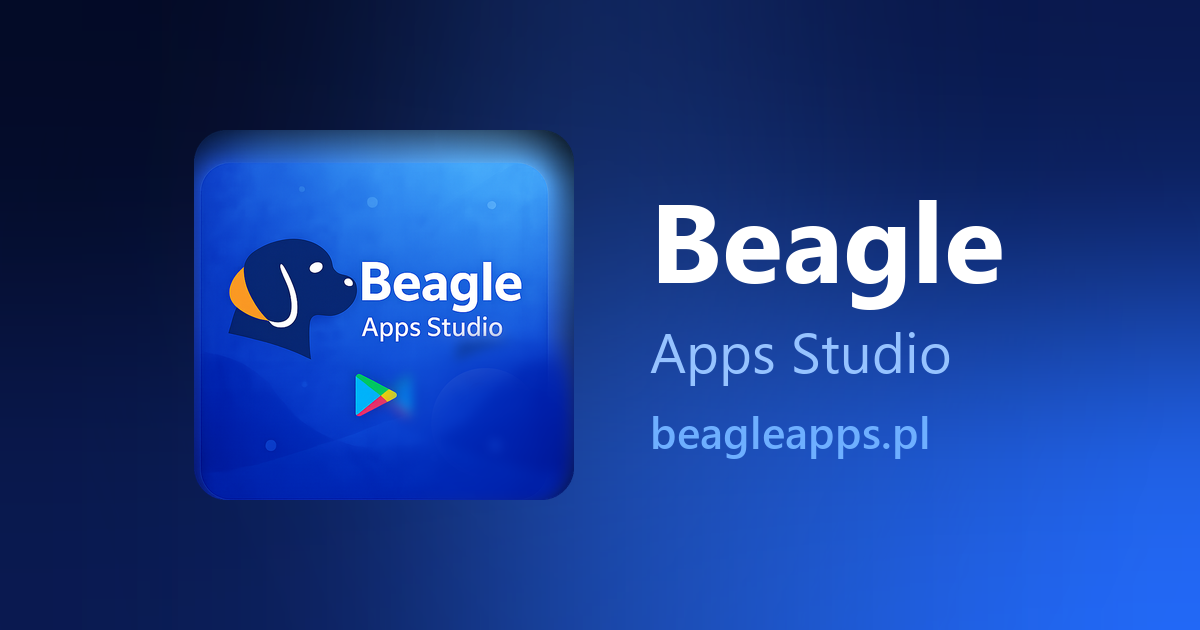
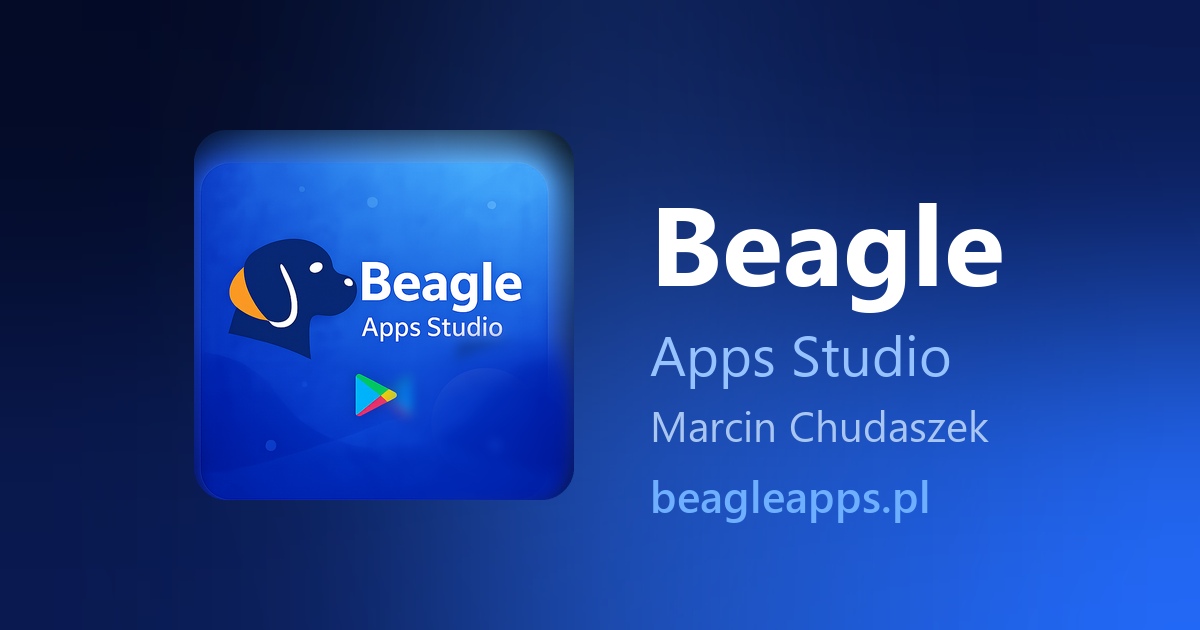
Podglad linku: wariant z nazwiskiem, zbudowany kodem brand kitu
Oficjalne og-image-1200x630.png ma tylko logo, nazwe studia i adres, a na
stronie autorstwo jest podpisane (stopka, sekcja "O mnie"), wiec podglad
linku tez je niesie.

scripts/og-image.py importuje BeagleAppsStudio-BrandKit\_generator.py i
sklada grafike tym samym kodem co oryginal — gradient(), glow(),
build_card(), ta sama paleta i typografia. Rozni sie tylko czwartym
wierszem "Marcin Chudaszek" miedzy "Apps Studio" a adresem; interlinie
przeliczone tak, zeby ogonek "g" w "Beagle" nie wchodzil na nastepny
wiersz (to samo zastrzezenie co w lockup() w brand kicie).

Nazwa pliku bez zmian, wiec og:image w <head> zostaje. og:image:alt
uzupelniony o nazwisko.

diff --git a/index.html b/index.html
@@ -22,7 +22,7 @@
     <meta property="og:image" content="https://beagleapps.pl/img/og-beagleapps.png">
     <meta property="og:image:width" content="1200">
     <meta property="og:image:height" content="630">
-    <meta property="og:image:alt" content="Logo Beagle Apps Studio i adres beagleapps.pl">
+    <meta property="og:image:alt" content="Logo Beagle Apps Studio, Marcin Chudaszek, beagleapps.pl">
 
     <meta name="twitter:card" content="summary_large_image">
     <meta name="twitter:title" content="Beagle Apps Studio — aplikacje mobilne, webowe i gry">

diff --git a/scripts/og-image.py b/scripts/og-image.py
@@ -1,0 +1,64 @@
+"""Buduje grafike podgladu linku (Open Graph, 1200x630) w wersji z nazwiskiem.
+
+Oficjalne og-image-1200x630.png z brand kitu ma tylko logo, nazwe studia i
+adres. Na stronie autorstwo jest podpisane (stopka, sekcja "O mnie"), wiec
+podglad linku tez je niesie. Poza dodatkowym wierszem grafika jest zbudowana
+dokladnie tak samo jak oryginal: tym samym kodem, ta sama paleta i typografia.
+
+Uruchom:  python scripts/og-image.py
+"""
+import importlib.util
+import os
+
+from PIL import Image, ImageDraw
+
+BRANDKIT = r"C:\Users\marci\Desktop\Projekty\BeagleAppsStudio-BrandKit\_generator.py"
+CEL = r"C:\Users\marci\Desktop\Projekty\moje-aplikacje-strona\img\og-beagleapps.png"
+
+AUTOR = "Marcin Chudaszek"
+W, H = 1200, 630
+KARTA_W = 380          # szerokosc kafelka logo — jak w brand kicie
+CX, CY = 600, 315
+TYTUL_PX = 112
+ODSTEP = 76
+
+spec = importlib.util.spec_from_file_location("brandkit", BRANDKIT)
+bk = importlib.util.module_from_spec(spec)
+spec.loader.exec_module(bk)      # main() jest pod if __name__, wiec sie nie odpali
+
+clean = bk.build_clean()
+karta = bk.fit(bk.build_card(clean), w=KARTA_W)
+
+plotno = bk.gradient(W, H)
+plotno = bk.glow(plotno, CX, CY, 340)
+
+f_tytul = bk.font(bk.F_BOLD, TYTUL_PX)
+f_pod = bk.font(bk.F_REG, int(TYTUL_PX * 0.50))
+f_autor = bk.font(bk.F_REG, int(TYTUL_PX * 0.38))
+f_url = bk.font(bk.F_SEMI, int(TYTUL_PX * 0.40))
+
+d = ImageDraw.Draw(plotno)
+sz_tekstu = max(d.textlength(bk.NAME, f_tytul), d.textlength(bk.TAGLINE, f_pod),
+                d.textlength(AUTOR, f_autor), d.textlength(bk.URL, f_url))
+
+razem = karta.width + ODSTEP + sz_tekstu
+x = int(CX - razem / 2)
+plotno.alpha_composite(karta, (x, int(CY - karta.height / 2)))
+tx = int(x + karta.width + ODSTEP)
+
+# 1.34 * rozmiar = pelna interlinia Segoe UI; ponizej tego ogonek "g" w slowie
+# Beagle wchodzi na "Apps Studio" (komentarz z brand kitu, ten sam problem)
+wiersze = [
+    (bk.NAME, f_tytul, bk.WHITE, TYTUL_PX * 1.34),
+    (bk.TAGLINE, f_pod, bk.BLUE_L, TYTUL_PX * 0.72),
+    (AUTOR, f_autor, (168, 198, 240), TYTUL_PX * 0.62),
+    (bk.URL, f_url, (110, 175, 255), 0),
+]
+ty = CY - sum(w[3] for w in wiersze) / 2
+for tekst, fnt, kolor, dalej in wiersze:
+    d.text((tx, ty), tekst, font=fnt, fill=kolor)
+    ty += dalej
+
+plotno.convert("RGB").save(CEL, "PNG", optimize=True)
+print("%s  %dx%d  %d KB" % (os.path.basename(CEL), W, H,
+                            os.path.getsize(CEL) // 1024))
